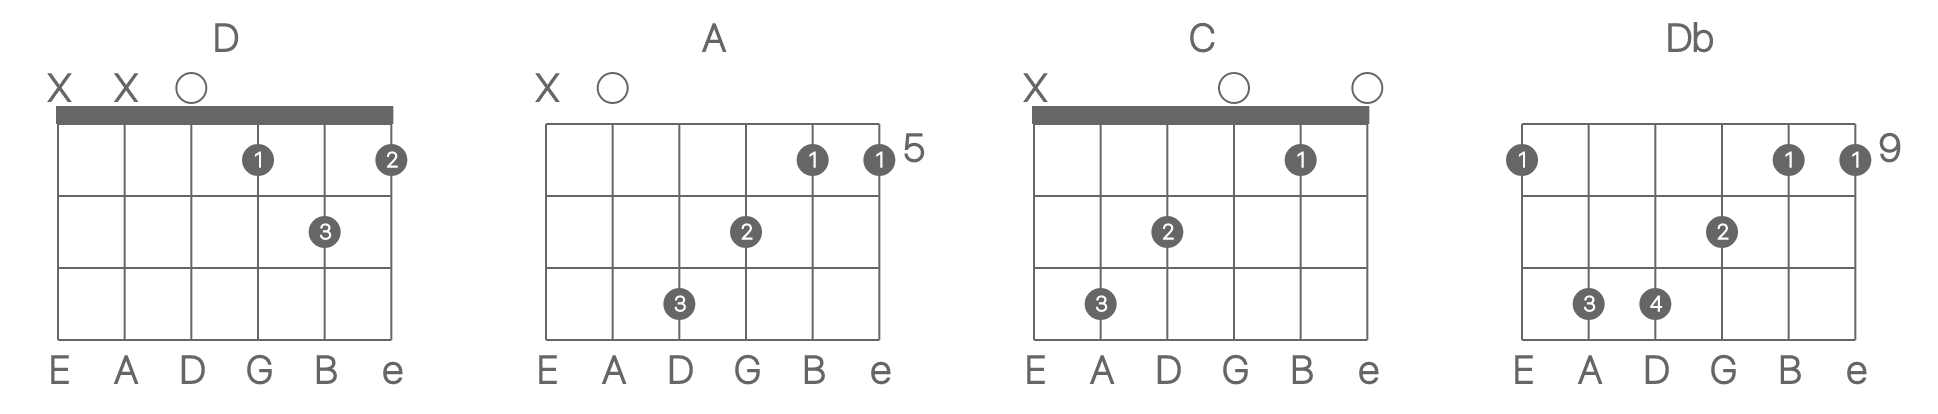
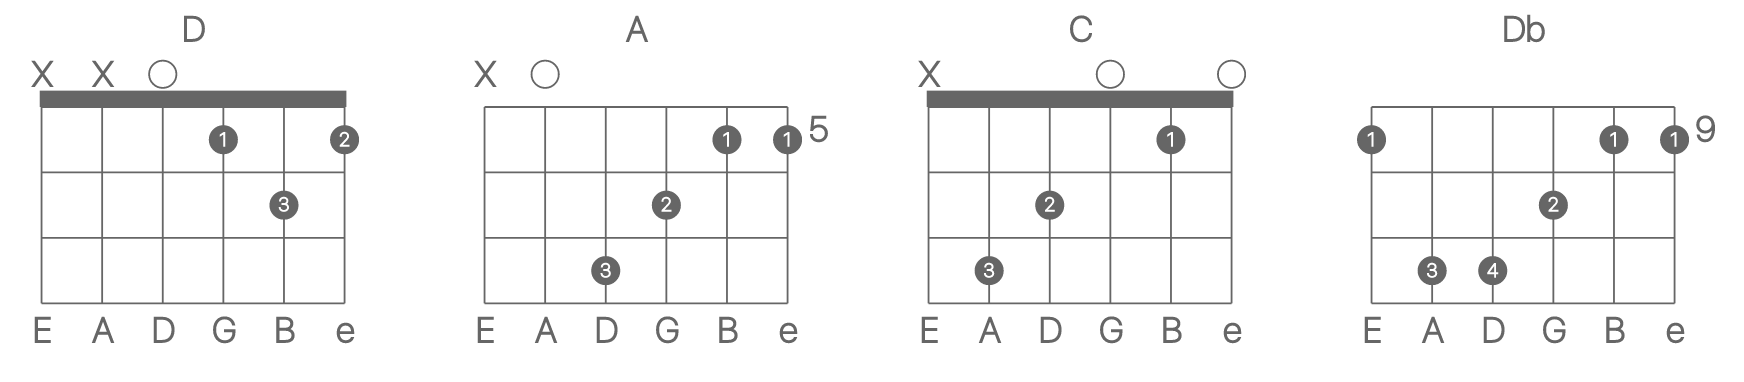
center labels

diff --git a/ChordSVG.js b/ChordSVG.js
@@ -291,7 +291,7 @@ var ChordSVG = (function () {
         const fontSize = _metrics.fontSize * 0.55;
         const textYShift = fontSize * 0.66;
 
-        DrawText(x, y - _fretSpacing / 2 - textYShift, label, {
+        DrawText(x - 0.25, y - _fretSpacing / 2 - textYShift, label, {
           weight: _params.labelWeight,
           size: fontSize,
         })
